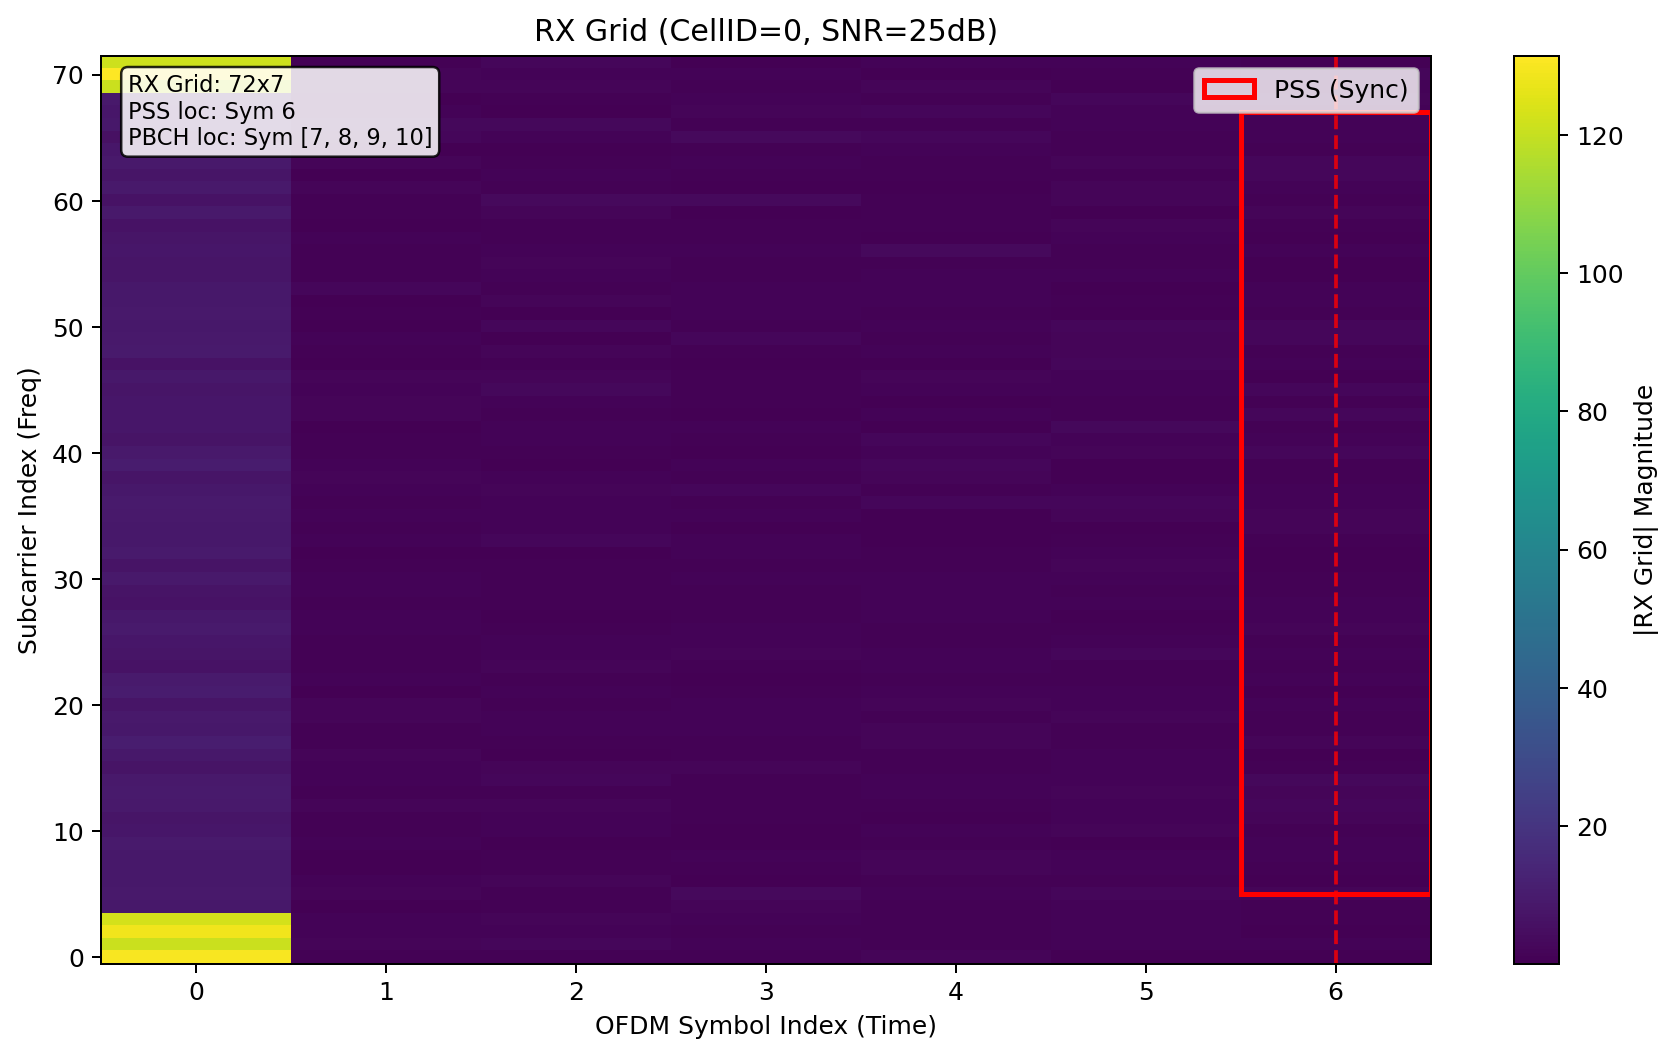
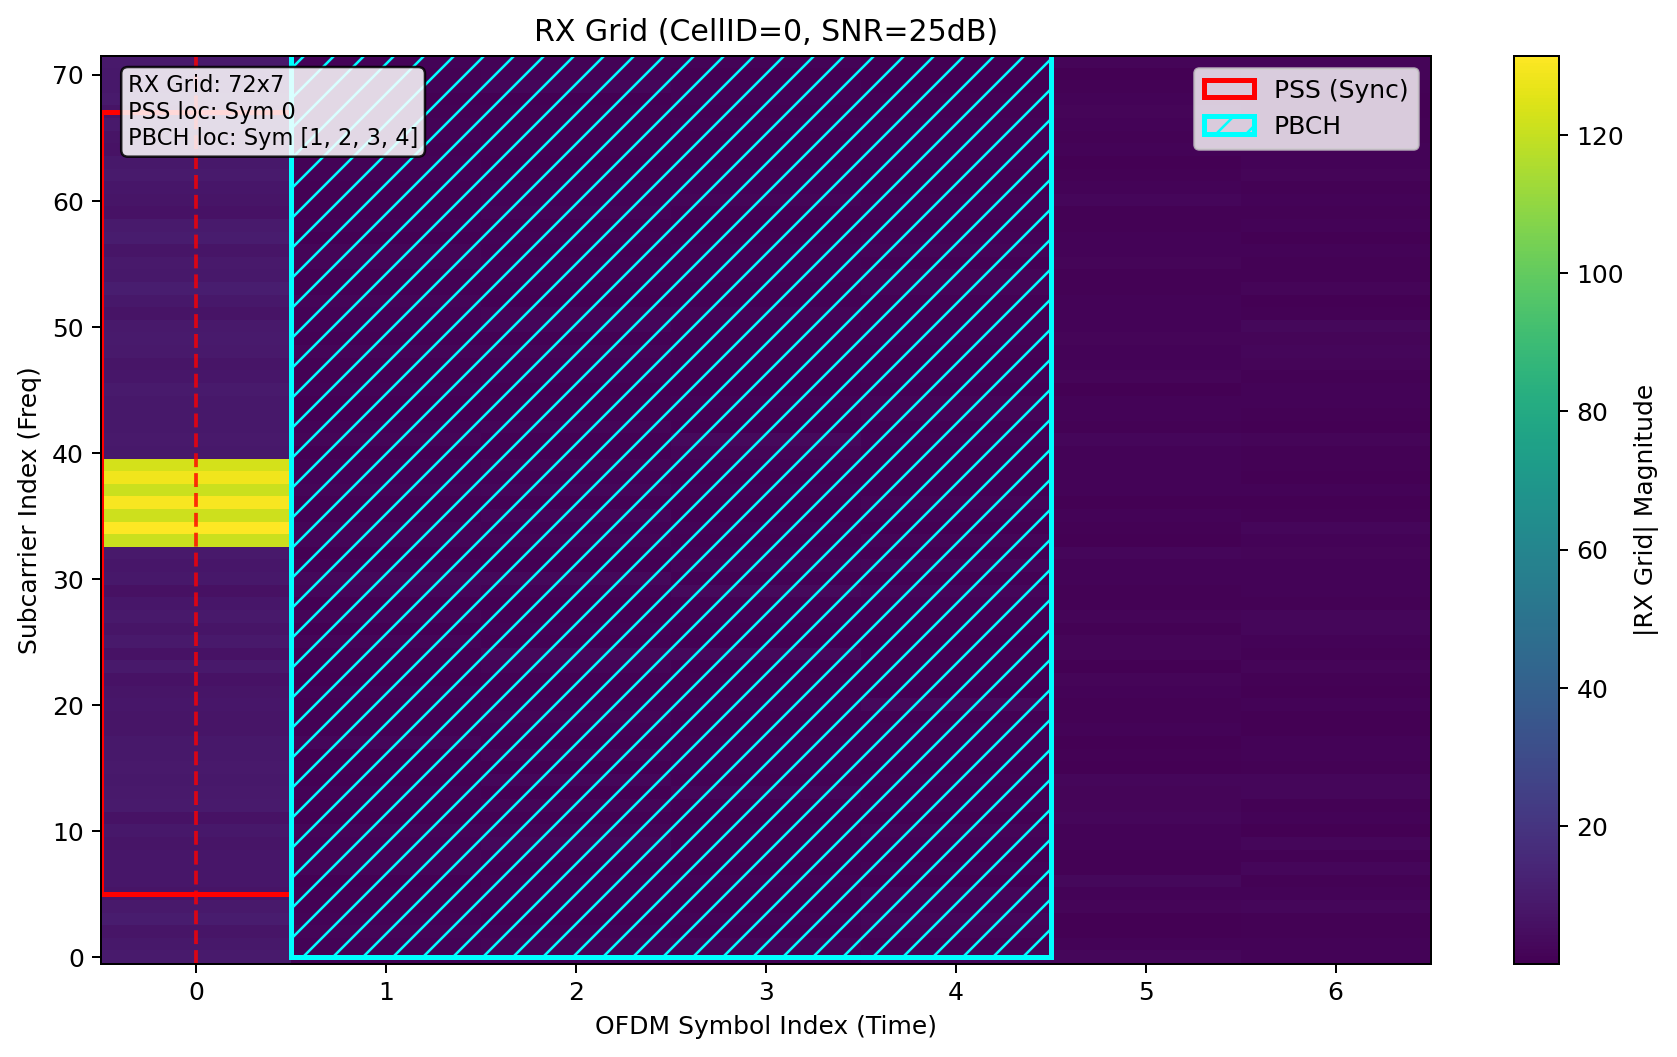
Ispravka

Changed region(s): [[0.062, 0.0312, 0.6512, 0.9366], [0.7132, 0.0937, 0.8682, 0.1561], [0.7442, 0.843, 0.8372, 0.8742]]

diff --git a/examples/rx_grid_heatmap.py b/examples/rx_grid_heatmap.py
@@ -11,7 +11,6 @@ import matplotlib.patches as patches
 # -----------------------------------------------------------------------
 # 1. KONFIGURACIJA PROJEKTA
 # -----------------------------------------------------------------------
-# Dodajemo root projekta u sys.path da Python vidi tvoje foldere
 project_root = Path(__file__).resolve().parent.parent
 if str(project_root) not in sys.path:
     sys.path.append(str(project_root))
@@ -34,7 +33,6 @@ def plot_rx_grid_heatmap(
     """
     Crta heatmapu RX grida i sprema je u examples/results/rx/.
     """
-
     
     results_dir = project_root / "examples" / "results" / "rx"
     results_dir.mkdir(parents=True, exist_ok=True)
@@ -44,11 +42,9 @@ def plot_rx_grid_heatmap(
         out_file = results_dir / "rx_grid_heatmap.png"
     else:
         out_path = Path(out_path)
-        # Ako je dato samo ime fajla, stavi ga u results/rx
         if out_path.parent == Path("."):
             out_file = results_dir / out_path.name
         else:
-            
             out_file = out_path
             out_file.parent.mkdir(parents=True, exist_ok=True)
 
@@ -59,7 +55,7 @@ def plot_rx_grid_heatmap(
     # Crtanje
     fig, ax = plt.subplots(figsize=(10, 6))
 
-    # Heatmap (origin='lower' je bitan za frekvenciju)
+    # Heatmap 
     im = ax.imshow(
         mag, 
         aspect="auto", 
@@ -92,6 +88,7 @@ def plot_rx_grid_heatmap(
         if valid_pbch:
             start = valid_pbch[0]
             width = len(valid_pbch)
+            # PBCH zauzima sve subcarriere u resursnom bloku (pojednostavljeno)
             rect_pbch = patches.Rectangle(
                 (start - 0.5, 0), width, n_subcarriers,
                 linewidth=2, edgecolor="cyan", facecolor="none", hatch="//", label="PBCH"
@@ -131,9 +128,9 @@ def plot_rx_grid_heatmap(
 # 3. GLAVNI PROGRAM (PIPELINE)
 # -----------------------------------------------------------------------
 if __name__ == "__main__":
-    print("--- Pokrećem C3 RX Pipeline ---")
+    print("--- Pokrećem C3 RX Pipeline (FIXED) ---")
 
-    # LAZY IMPORTS (Da izbjegnemo kružne greške)
+    # LAZY IMPORTS
     try:
         from transmitter.LTETxChain import LTETxChain
         from channel.lte_channel import LTEChannel
@@ -148,7 +145,6 @@ if __name__ == "__main__":
     
     # 1. TX GENERISANJE
     print("1. [TX] Generisanje signala...")
-   
     try:
         tx = LTETxChain()
     except TypeError:
@@ -177,12 +173,13 @@ if __name__ == "__main__":
     if tau_hat < 0 or tau_hat >= len(rx_waveform) - 1000:
         print("   [WARN] Sync fail, koristim 0.")
         tau_hat = 0
-        
+    
+    # Ovdje režemo signal tačno na početku PSS-a.
+    # To znači da je u 'rx_aligned' PSS na indeksu 0!
     rx_aligned = rx_waveform[tau_hat:]
 
     # 4. OFDM DEMODULACIJA
     print("4. [RX] OFDM Demodulacija...")
-    # klasa koristi 'ndlrb'
     ofdm_rx = OFDMDemodulator(ndlrb=6)
     
     # 1. Dobijemo sirovi grid (Simboli x FFT)
@@ -193,16 +190,31 @@ if __name__ == "__main__":
     
     # 3. Transponujemo za plot (72 x Simboli)
     rx_grid_final = grid_active.T
+
+    # -------------------------------------------------------------------
+    # KLJUČNI FIX: FFT SHIFT
+    # -------------------------------------------------------------------
+    # OFDM demodulator obično vraća DC na indexu 0.
+    # Da bi PSS bio u sredini (kako vizualizacija očekuje), moramo rotirati.
+    rx_grid_final = np.fft.fftshift(rx_grid_final, axes=0)
     
     print(f"   --> Grid shape za plot: {rx_grid_final.shape}")
 
     # 5. VIZUALIZACIJA
     print("5. [PLOT] Crtanje...")
+    
+    # Budući da rx_aligned počinje s PSS-om, PSS je na simbolu 0.
+    # PBCH slijedi odmah nakon PSS-a (simboli 1, 2, 3, 4).
+    plot_pss_loc = 0
+    plot_pbch_loc = [1, 2, 3, 4]
+
     path = plot_rx_grid_heatmap(
         rx_grid_final,
         title=f"RX Grid (CellID={nid}, SNR={snr_db}dB)",
         highlight_pss=True,
-        highlight_pbch=True
+        highlight_pbch=True,
+        pss_symbol_index=plot_pss_loc,      # Prilagođeno podacima
+        pbch_symbol_indices=plot_pbch_loc   # Prilagođeno podacima
     )
     
     print("------------------------------------------------")
